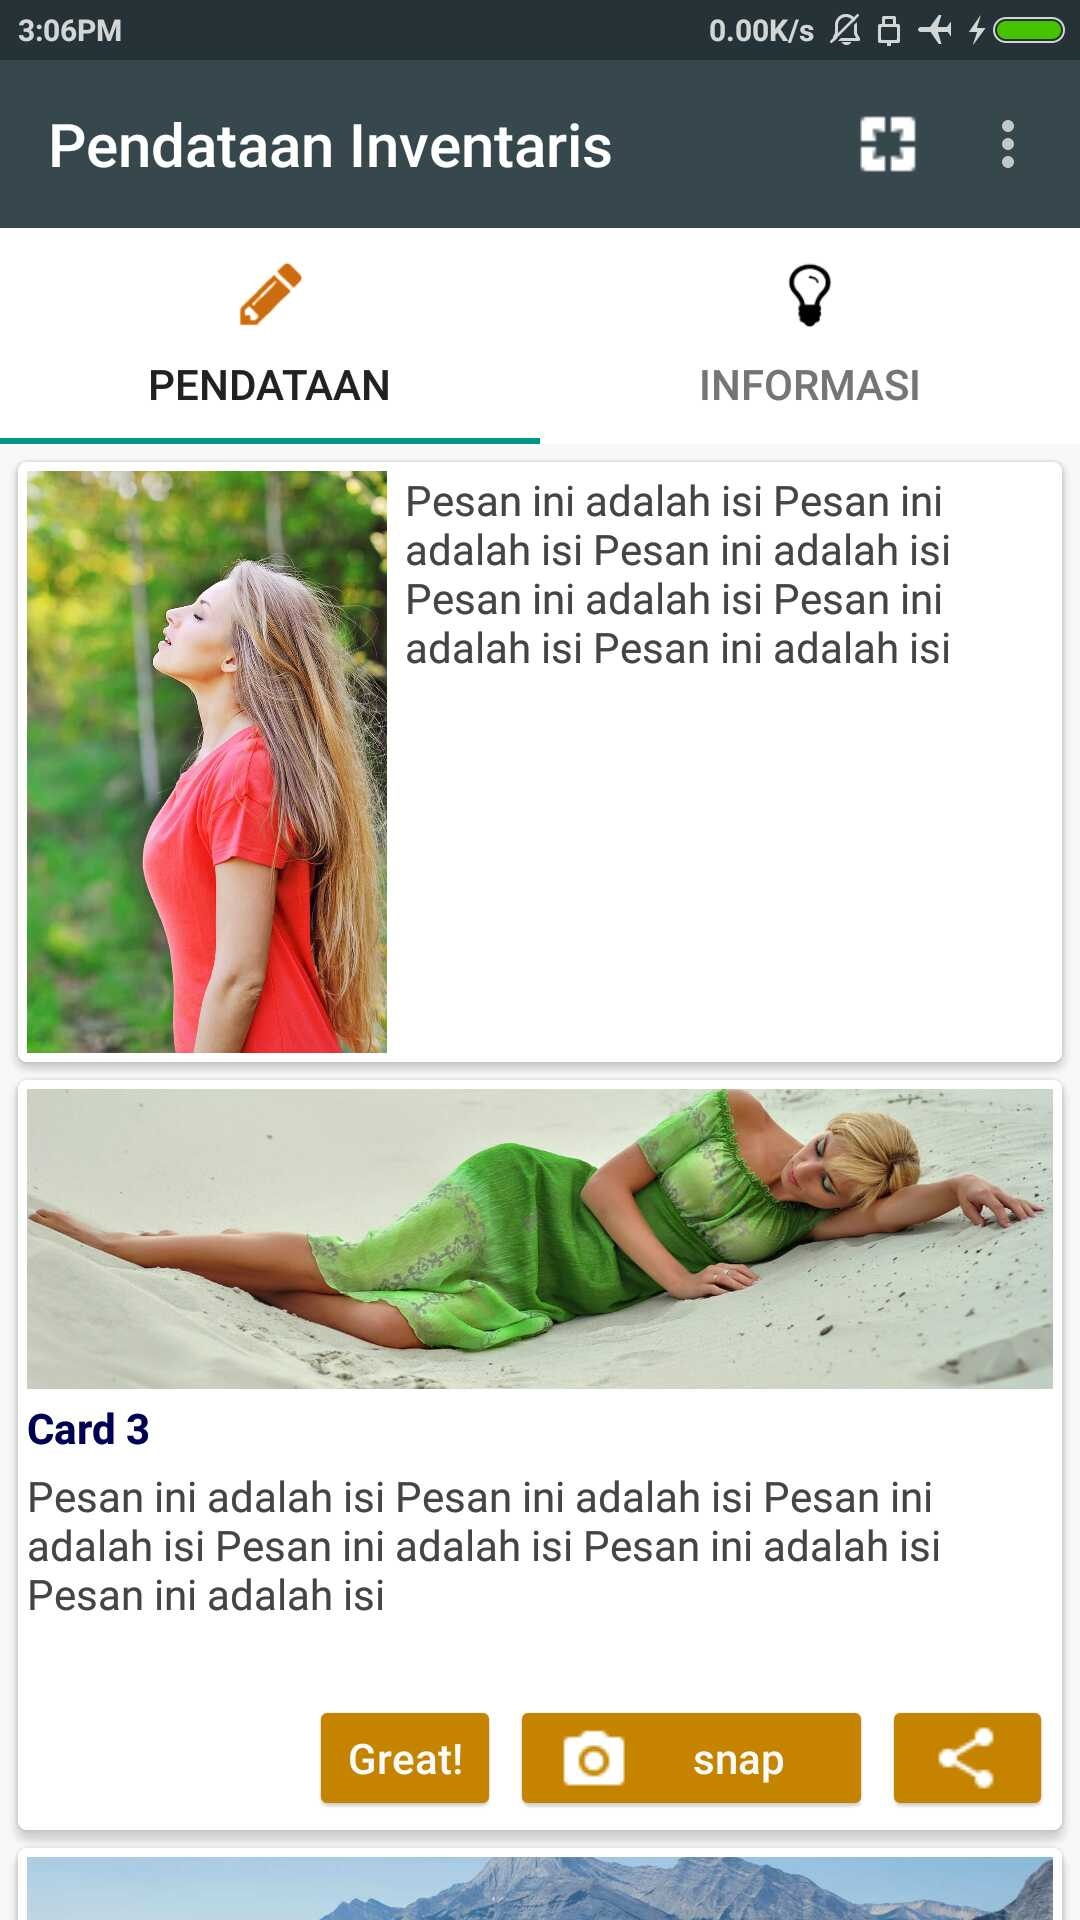
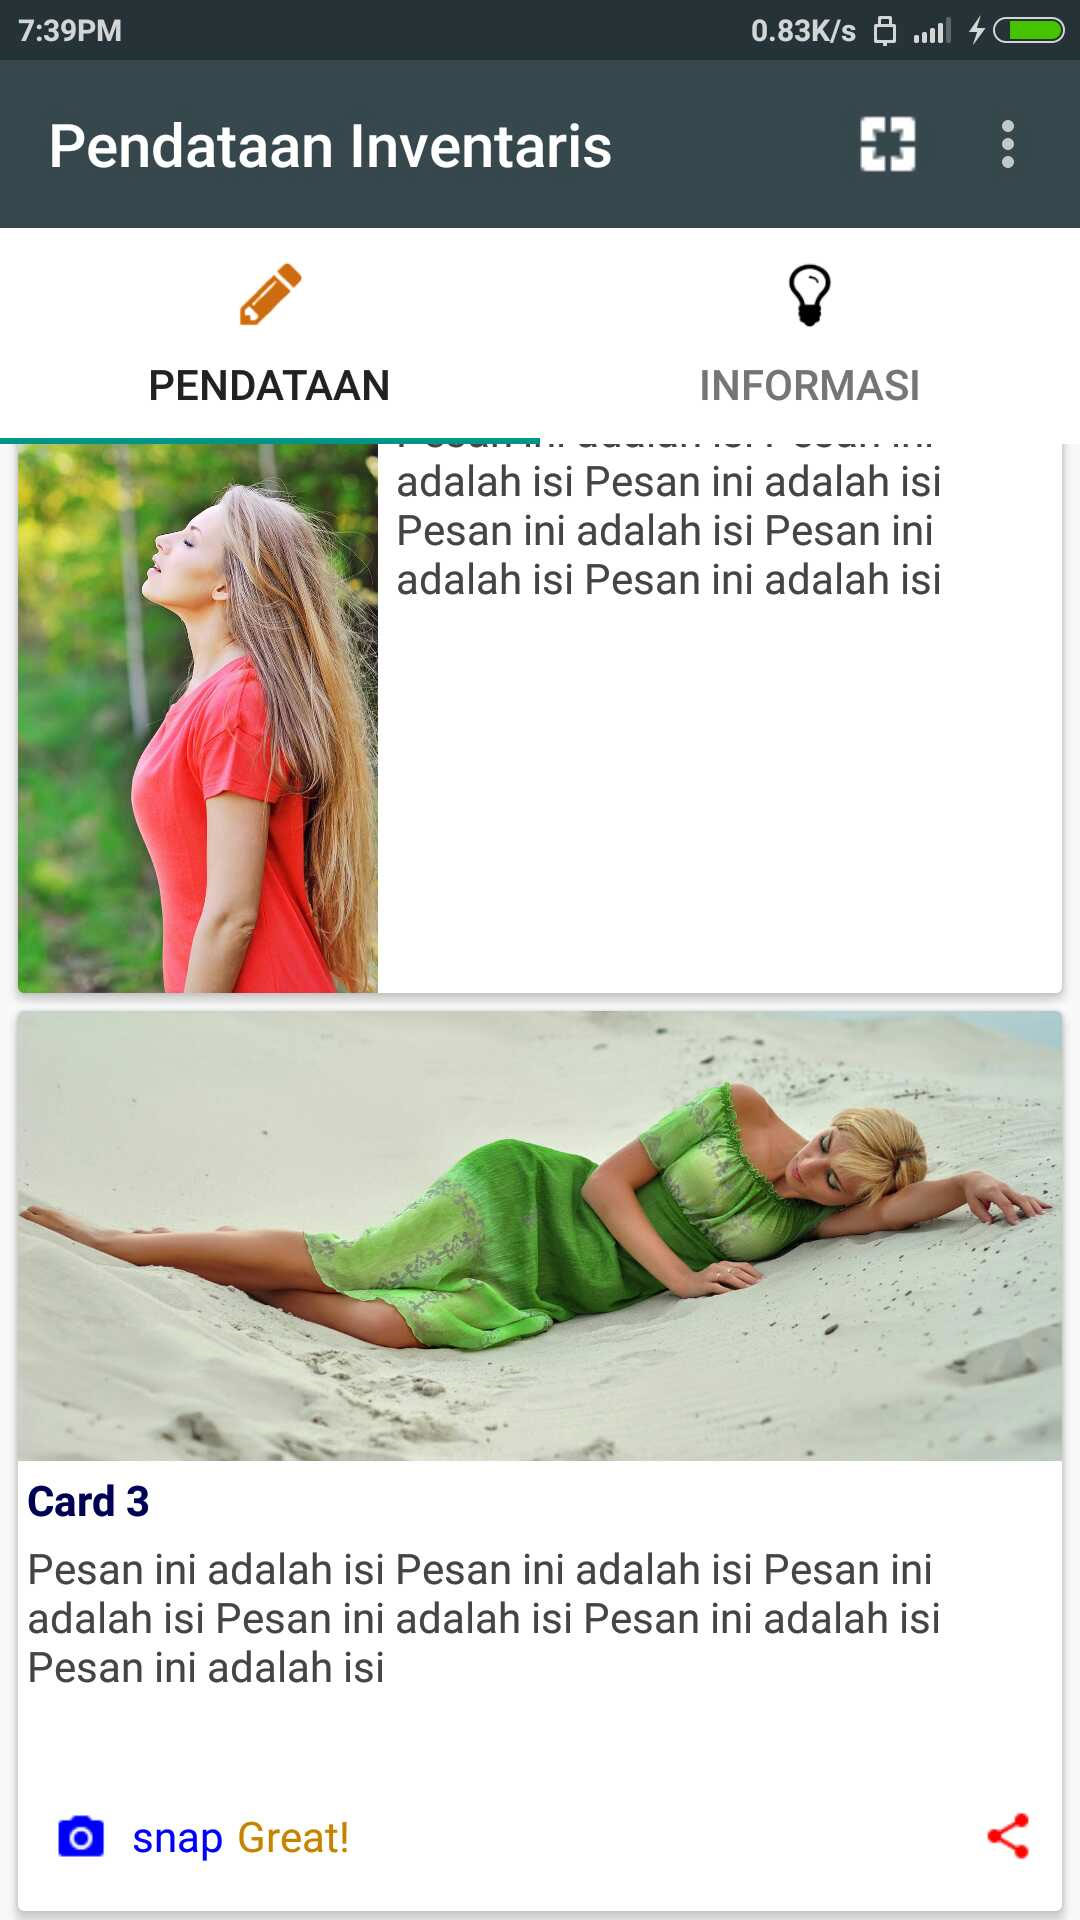
Card: Add imageCaption, imageCaptionColor, Material Design specs. Action: separate color and position for each action item.

diff --git a/www/tabrisjscard.js b/www/tabrisjscard.js
@@ -1,15 +1,81 @@
+function _textWidth(t){return 8*(t||'').length;}
+function ActionButton(_opts/*{text:'', image:'', background:'', textColor: ''}*/){
+	var _abo = {
+		elevation: 0,
+		width: 32, top: 3, bottom:3,
+		highlightOnTouch: true,
+		cornerRadius:2
+	};	
+	_abo.background = _opts.background||'#ffffff';	
+	_abo.textColor  = _opts.textColor||'#333333';	
+	var _w;
+	var _ab = new tabris.Composite(_abo);
+	
+	_opts.image = _opts.image || '';
+	if (_opts.image!='') {
+		_w = _abo.width;
+		_ab.image = new tabris.ImageView({
+			left:2, top: 2, bottom:2, width:32,
+			background: _abo.background,
+			image: {src:_opts.image, width:24, height:24},
+			tintColor: _abo.textColor
+		}).appendTo(_ab);
+	}
+	else
+	{
+		_w = 0;
+		_ab.image = new tabris.ImageView({
+			left:0, top: 0, bottom:0, width:0,
+			background: _abo.background
+		}).appendTo(_ab);	
+	}
+	
+	_abo.text = _opts.text||'';
+	if (_abo.text!=''){
+		_w+= (2+_textWidth(_abo.text));
+		_ab.set('width', _w);
+		new tabris.TextView({
+			left: [_ab.image,1] , top: 0, bottom:0, width:_textWidth(_abo.text),
+			text: _abo.text.substr(0,10),
+			textColor: _abo.textColor
+		}).appendTo(_ab);		
+	}
+	else
+	{
+		new tabris.TextView({
+			left: [_ab.image, 0] , top: 0, bottom:0, width:0,
+			text: ''
+		}).appendTo(_ab);		
+	}
+	_ab.on('touchstart', function(iv){
+		iv.animate({transform: {translationZ: 3}}, {duration: 200, easing: "ease-out"});
+	})
+	.on('touchend', function(iv){
+		iv.animate({transform: {translationZ: 0}}, {duration: 200, easing: "ease-out"});
+	});
+	return _ab;
+}
+
 module.exports = {
 	createCard: function(message, cardTitle, options){
 		var opts = {};
-		opts.cornerRadius = options.cornerRadius || 3;
+		opts.cornerRadius = options.cornerRadius || 2;
 		opts.elevation = options.elevation || 3;
 		opts.background = options.background || '#ffffff';
 		opts.layoutData = {};
 		opts.layoutData.left = options.left || 6;
-		opts.layoutData.right = options.right || 6;
-		opts.layoutData.height = options.height || 200;
+		opts.layoutData.right = options.right || 6;		
 		opts.image = options.image || '';
 		opts.imagePosition = options.imagePosition || 'left';
+		opts.imageCaptionColor = options.imageCaptionColor || '#ddbb00';
+		if (options.imagePosition=='top'){
+			opts.layoutData.height = options.height || 300;
+		}
+		else
+		{
+			opts.layoutData.height = options.height || 200;	
+		}
+		opts.imageCaption = options.imageCaption || '';
 		var _title = cardTitle || '';
 		if (options.adjacentTop) {
 			opts.layoutData.top = [options.adjacentTop, options.top || 6];
@@ -19,7 +85,7 @@ module.exports = {
 			opts.layoutData.top = options.top || 6;
 		}
 		opts.actions = options.actions || [];
-		var _bottom = 3;
+		var _bottom = 0;
 		var a =  new tabris.Composite({
 			cornerRadius: opts.cornerRadius,
 			elevation: opts.elevation,
@@ -33,7 +99,7 @@ module.exports = {
 		});
 		a.actions = [];
 		if (opts.actions.length>0) {
-			_bottom = 51;
+			/*_bottom = 51;
 			var bar = new tabris.Composite({
 				class: 'cardActionBar',
 				layoutData: {left:0, bottom:0, right: 0, height: _bottom-3}
@@ -59,17 +125,72 @@ module.exports = {
 				{
 					actOpts.layoutData = {right: 3, bottom:3, top: 3, width: bw};
 				}
-				actOpts.background = '#c78300';
+				actOpts.background = '#ffffff';
 				actOpts.elevation = 0;				
 				actOpts.tintColor = '#ffff00';
-				actOpts.textColor = '#fafafa';
+				actOpts.textColor = '#c78300';
 				lAct = new tabris.Button(actOpts).on('select', function(_btn){
 					if (typeof _btn.action=='function') {
-						_btn.action(/*TheCard*/a, /*TheButton*/_btn);
+						_btn.action(
+							a, //TheCard 
+							_btn //TheButton
+						);
 					}
 				}).appendTo(bar);
 				lAct.action = opts.actions[i].action;
-				a.actions.push(lAct);
+				a.actions.push(lAct);*/
+
+				var bar = new tabris.Composite({
+					class: 'cardActionBar',
+					layoutData: {left:3, bottom:3, right: 3, height: 44}
+				}).appendTo(a);
+				a.actionBar = bar;
+				var lAct;
+				for (var i=0; i<opts.actions.length; i++) {
+					var actOpts = {
+						position: opts.actions[i].position || 'right'
+					};
+					if ((opts.actions[i].image || '')!=''){
+						actOpts.image = opts.actions[i].image;
+					}
+					if ((opts.actions[i].text || '')!=''){
+						actOpts.text = opts.actions[i].text;
+					}			
+					var _r, _l;
+					if (lAct && (lAct!=null)) {
+						if (lAct.position == 'left')
+						{
+							_l = [lAct,3];
+						}
+						else
+						{
+							_r = [lAct,3];
+						}
+					}
+					else
+					{
+						_r = 0;
+					}		
+					actOpts.background = '#ffffff';					
+					actOpts.textColor = opts.actions[i].color || '#c78300';
+					lAct = ActionButton(actOpts).on('tap', function(_btn){
+						if (typeof _btn.action=='function') {
+							_btn.action(
+								a, //TheCard 
+								_btn //TheActionButton
+							);
+						}
+					}).appendTo(bar);
+					lAct.position = actOpts.position;
+					if (actOpts.position=='left'){
+						lAct.set('left', _l);	
+					}
+					else
+					{
+						lAct.set('right', _r);
+					}
+					lAct.action = opts.actions[i].action;
+					a.actions.push(lAct);
 			}
 		}
 		if (opts.image == '') {
@@ -93,7 +214,7 @@ module.exports = {
 			if (opts.imagePosition=='top'){
 				var image = new tabris.ImageView({
 					class: 'cardImage',
-					layoutData: {top: 3, left: 3, right:3 , height: 100},
+					layoutData: {top: 0, left: 0, right:0 , height: Math.floor(opts.layoutData.height/2)},
 					image: opts.image,
 					scaleMode: 'fill'
 				}).appendTo(a);				
@@ -112,11 +233,20 @@ module.exports = {
 					text: message,
 					textColor: '#444444'
 				}).appendTo(a);
+				if (opts.imageCaption!=''){
+					a.imageCaption = new tabris.TextView({
+						class: 'cardimageCaption',
+						layoutData: {bottom: image.get('height')+6, left: 3, right:3},
+						text: opts.imageCaption,
+						textColor: opts.imageCaptionColor,
+						font: 'bold 13px'
+					}).appendTo(a);
+				}
 			}
 			else {
 				var image = new tabris.ImageView({
 					class: 'cardImage',
-					layoutData: {top: 3, left: 3, width: Math.floor(screen.width/3), bottom: _bottom},
+					layoutData: {top: 0, left: 0, width: Math.floor(screen.width/3), bottom: _bottom},
 					image: opts.image,
 					scaleMode: 'fill'
 				}).appendTo(a);
@@ -135,6 +265,15 @@ module.exports = {
 					text: message,
 					textColor: '#444444'
 				}).appendTo(a);
+				if (opts.imageCaption!=''){
+					a.imageCaption = new tabris.TextView({
+						class: 'cardimageCaption',
+						layoutData: {bottom: 3, left: 3, width: image.get('width')-3},
+						text: opts.imageCaption,
+						textColor: opts.imageCaptionColor,
+						font: 'bold 13px'
+					}).appendTo(a);
+				}
 			}
 		}
 		

diff --git a/README.md b/README.md
@@ -140,6 +140,33 @@ var card6 = createCard('Card6 Content', 'Card6 Title', {
 }).appendTo(page);
 ```
 
+To create card on a page with Image Caption and separate action color and position:
+```js
+var card7 = createCard('Card7 Content', 'Card7 Title', {
+  adjacentTop: card6,
+  image: 'images/001.jpg',
+  imageCaption: 'Blue Lake Girl',
+  imageCaptionColor: '#ffffff',
+  imagePosition: 'top',
+  actions: [
+    {color: '#ff0000', position:'right', image: 'img/share.png', action: function(theCard, theButton){
+      var opts = {
+        message: 'Share content for card 6',
+        subject: 'Share card 6',
+        chooserTitle: 'Bagikan'
+      };
+      window.plugins.socialsharing.shareWithOptions(opts, function(r){}, function(e){});
+    }},
+    {color: '#0000ff', position:'left', text: 'snap', image: 'img/camera.png', action: function(theCard, theButton){
+      showToast('Share');
+    }},
+    {position:'left', text: 'Great!', action: function(theCard, theButton){
+      showToast('great!');
+    }}
+  ]
+}).appendTo(page);
+```
+
 #### Accessing Card Members
 You can access card's members as follows:
 
@@ -162,6 +189,7 @@ card6.image.set('image', {src:'newimage.jpg'});
 card6.actions[0].set('image', 'icons/icon-share.png'); 
 // ---- card6.actions.length would be 0 
 // ---- if no actions were specified on card creation
+Card6.imageCaption.set('text', 'New Image Caption');
 ```
 
 ### Diposing a Card
@@ -186,16 +214,39 @@ createCard(
     right         // integer, default 6
     height        // integer, default 200    
     image: 'images/010.jpg', // string. {src: '...'} is not supported
-    imagePosition: 'top', // or 'left'. right and bottom are not supported
-    actions       // array of {image:'img.png', text: 'text', action: function(card, button){}}
+    imagePosition: 'top', // or 'left'. right and bottom are not supported,
+    imageCaption, // string, text to display on top of image,
+    imageCaptionColor,
+                  // string, CSS color
+    actions       // array of object, see below...
   }
 );
 ```
 
+`Card Actions` is an array of object, as:
+```js
+{
+  image:'img.png',  // string, image uri
+  text: 'text',     // string, arbitrary text
+  color: '#ff0000', // string, CSS color
+  position: 'left'  // string, 'left' or 'right', defaults to 'right'
+  action: function(theCard, theAction){}
+  }
+```
 
 ## 5. CREDITS
 
 This plugin is based on [TabrisJS](http://tabrisjs.com).
 The Javascript code was entirely created by me.
 
+This library is now trying to stick on Google Material Design specs, thanks to [mpost](https://github.com/mpost) for commenting
+on [This TabrisJS Issue](https://github.com/eclipsesource/tabris-js/issues/886).
+
 ## 6. CHANGELOG
+
+2016-10-14: 
+  * Add options for Card: `imageCaption` and `imageCaptionColor`.
+  * Remove margin around Card image (accourding to Material Design Specs for Card).
+  * Card Actions change from Button to Composite (because TabrisJS UI Button always have border and shadow - `elevation` cannot be set to 0).
+  * Card Actions change, now each action item can have its own foreground color.
+  * Card Actions change, now each action item can have its own position on Card Action Bar ('left' or 'right').
